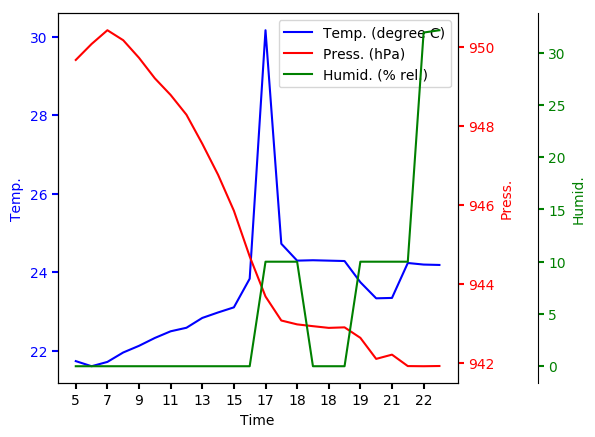
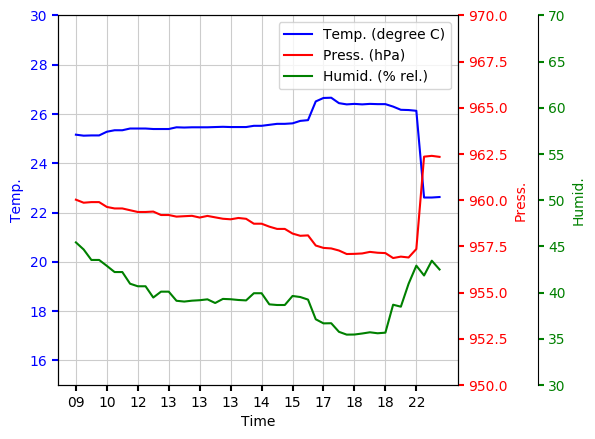
working on better plot experience

diff --git a/homesens/static/style.css b/homesens/static/style.css
@@ -3,6 +3,7 @@ a, h1, h2       { color: #377ba8; }
 h1, h2          { font-family: 'Georgia', serif; margin: 0; }
 h1              { border-bottom: 2px solid #eee; }
 h2              { font-size: 1.2em; }
+div 			{border-width: thin;} 
 
 .page           { margin: 2em auto; width: 35em; border: 5px solid #ccc;
                   padding: 0.8em; background: white; }
@@ -16,3 +17,26 @@ h2              { font-size: 1.2em; }
 .flash          { background: #cee5F5; padding: 0.5em;
                   border: 1px solid #aacbe2; }
 .error          { background: #f0d6d6; padding: 0.5em; }
+
+#nice_table {
+    font-family: "Trebuchet MS", Arial, Helvetica, sans-serif;
+    border-collapse: collapse;
+    width: 100%;
+}
+
+#nice_table td, #nice_table th {
+    border: 1px solid #ddd;
+    padding: 8px;
+}
+
+#nice_table tr:nth-child(even){background-color: #f2f2f2;}
+
+#nice_table tr:hover {background-color: #ddd;}
+
+#nice_table th {
+    padding-top: 12px;
+    padding-bottom: 12px;
+    text-align: left;
+    background-color: #377ba8;
+    color: white;
+}

diff --git a/homesens/templates/show_entries.html b/homesens/templates/show_entries.html
@@ -13,15 +13,23 @@
   {% endif %}
   <h2>A beautiful plot</h2>
 	<img src="{{ url_for('static', filename='images/tmp_plot_collection.png') }}" width="550" height="300" title="Plot Collection" border="0">
-  <ul class=entries>
-	  <p>time | temp. | press. | humid.</p>
-  {% for entry in entries %}
-    <li>{{ entry.timestamp }} |
-		{{ "%.2f"|format(entry.temperature) }} |
-		{{ "%.2f"|format(entry.pressure) }} |
-		{{ "%.2f"|format(entry.humidity) }}
-  {% else %}
-    <li><em>Unbelievable.  No entries here so far</em>
-  {% endfor %}
-  </ul>
+  <table id=nice_table>
+	<TR>
+		<th>Time</th>
+		<th>Temp.</th>
+		<th>Press.</th>
+		<th>Humid.</th>
+	<TR>
+	{% for entry in entries %}
+	<TR>
+	   <TD class="c1">{{ entry[0] }}</TD>
+	   <TD class="c2">{{ "%.2f"|format(entry[1]) }}</TD>
+	   <TD class="c3">{{ "%.2f"|format(entry[2]) }}</TD>
+	   <TD class="c4">{{ "%.2f"|format(entry[3]) }}</TD>
+	</TR>
+	{% else %}
+    <TR>Unbelievable. No entries here so far</TR>
+	{% endfor %}
+  </table>
+	  
 {% endblock %}

diff --git a/homesens/plot_collection.py b/homesens/plot_collection.py
@@ -4,20 +4,20 @@ import matplotlib.pyplot as plt # now we can import pyplot also headless
 import numpy as np
 import time
 
-def blub():
-    print('SUCCESS BLUB')
-
 
 TMP_FILENAME = 'homesens/static/images/tmp_plot_collection.png'
 
-# plotting #################################################
-
 def select_data_span(data, span):
 	
-	spans = [24, 24*7, 24*7*30] # available time spans for day/week/month
+	spans = np.array([24, 24*7, 24*7*30]) # available time spans for day/week/month
+	# now we have a measurement every half hour
+	spans = 2*spans
+	
 	data_span = []
 	
+	print span
 	if span == 'day':
+		print 'span', len(data)
 		if len(data) >= spans[0]:
 			data_span = (data[0:spans[0]])
 	if span == 'week':
@@ -36,24 +36,25 @@ def make_patch_spines_invisible(ax):
         sp.set_visible(False)
 
 def plot_mult_in_one(data, span):
-
 	data = select_data_span(data, span)
 	data = np.array(data)
 	data = np.flipud(data)
-	t_str = data[:,0]
-	data = data[:,1:] # remove timestamp
+	t_str = [entry[0] for entry in data]
+	#t_str = data[:,0]
+	
+	data = np.array([list(x[1:]) for x in data]) # remove timestamp
 	#t = np.tile(t0, (len(data),1))
 	
 	float_arr = np.vectorize(float)
 	data = float_arr(data)
 	#int_arr = np.vectorize(int)
 	t_hours_str = [timestamp[-8:-6] for timestamp in t_str]
-	if time.localtime().tm_isdst:
-		time_shift = 2
-	else:
-		time_shift = 1
+	#if time.localtime().tm_isdst:
+	#	time_shift = 2
+	#else:
+	#	time_shift = 1
 	
-	t_hours_str = [int(entry)+time_shift for entry in t_hours_str] # TODO database logs in UTC, but we have CET
+	#t_hours_str = [int(entry)+time_shift for entry in t_hours_str] # TODO database logs in UTC, but we have CET
 	#t_hours_str = [entry.split('.')[0] for entry in t_hours_str]
 	# TODO set t to t_hours
 	t = np.arange(len(data))
@@ -92,6 +93,12 @@ def plot_mult_in_one(data, span):
 	host.yaxis.label.set_color(p1.get_color())
 	par1.yaxis.label.set_color(p2.get_color())
 	par2.yaxis.label.set_color(p3.get_color())
+	
+	host.grid(which='both', color=[0.8, 0.8, 0.8], linestyle='-', linewidth=0.8)
+
+	host.set_ylim(15,30)
+	par1.set_ylim(950,970)
+	par2.set_ylim(30,70)
 
 	tkw = dict(size=4, width=1.5)
 	host.tick_params(axis='y', colors=p1.get_color(), **tkw)
@@ -99,8 +106,9 @@ def plot_mult_in_one(data, span):
 	par2.tick_params(axis='y', colors=p3.get_color(), **tkw)
 	host.tick_params(axis='x', **tkw)
 
-	ticks = t[0::2]
-	tick_labels = t_hours_str[0::2]
+	tick_skip = 4
+	ticks = t[0::tick_skip]
+	tick_labels = t_hours_str[0::tick_skip]
 	host.set_xticks(ticks, minor=False)
 	host.set_xticklabels(tick_labels, fontdict=None, minor=False)
 
@@ -132,4 +140,3 @@ def plot_nicely(data, span):
 
 	plt.savefig(TMP_FILENAME, bbox_inches='tight')
 	
-#############################################################

diff --git a/homesens/homesens.py b/homesens/homesens.py
@@ -3,7 +3,7 @@ import os
 import sqlite3
 from flask import Flask, request, session, g, redirect, url_for, abort, \
      render_template, flash
-     
+
 # my imports
 #import plot_collection
 #import matplotlib.pyplot as pl
@@ -15,6 +15,7 @@ import time
 app = Flask(__name__) # create the application instance :)
 app.config.from_object(__name__) # load config from this file
 #app.run(host='0.0.0.0') # run puplic availabe over the network, this is unsecure!!!
+
 
 # Load default config and override config from an environment variable
 app.config.update(dict(
@@ -67,21 +68,24 @@ def UTC2CET(utc_timestamp):
 	if hour > 24:
 		hour = hour - 24
 	
-        cet_timestamp = utc_timestamp[1:-9] + str(hour) + utc_timestamp[-6:]
+	cet_timestamp = utc_timestamp[1:-9] + str(hour) + utc_timestamp[-6:]
 	return cet_timestamp
 
 @app.route('/')
 def show_entries():
-    plot_collection.blub()
-    print('after blub')
     db = get_db()
-    cur = db.execute('select timestamp, temperature, pressure, humidity from entries order by id desc')
+	# timestamp is in UTC, convert to CET
+    cur = db.execute('select datetime (timestamp,\'localtime\'), temperature, pressure, humidity from entries order by id desc')
+    #col_names = [i[0] for i in cur.description]
+    #print col_names
     entries = cur.fetchall()
-    # timestamp is in UTC, convert to CET
-    for entry in entries:
-		entry[0] = UTC2CET(entry[0])
-    # generate plot of current data
+	# convert to list, as we cannot access timestamp column anymore
+    #entries = [entry for entry in entries]
     plot_collection.plot_mult_in_one(entries,'day')
+    
+    print entries
+    entries = entries[1:20] # show only last 20 elements
+    
     return render_template('show_entries.html', entries=entries)
     
 @app.route('/add', methods=['POST'])
